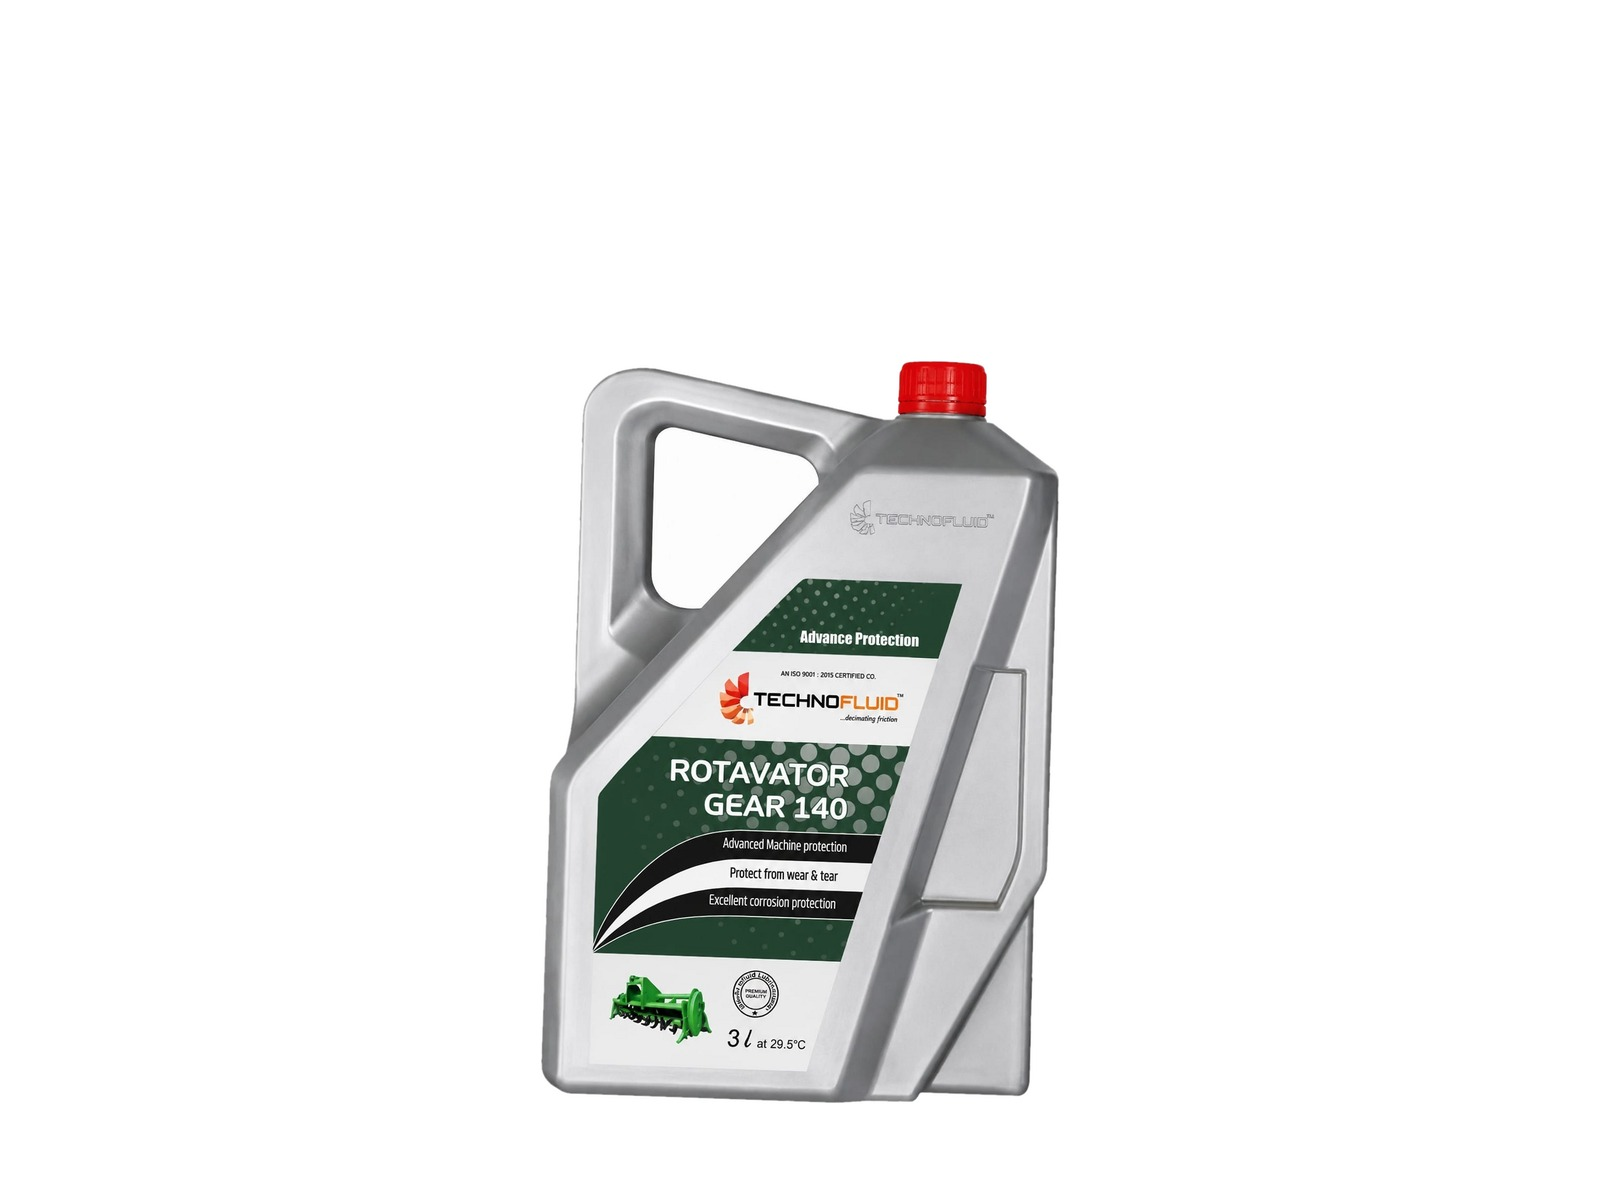
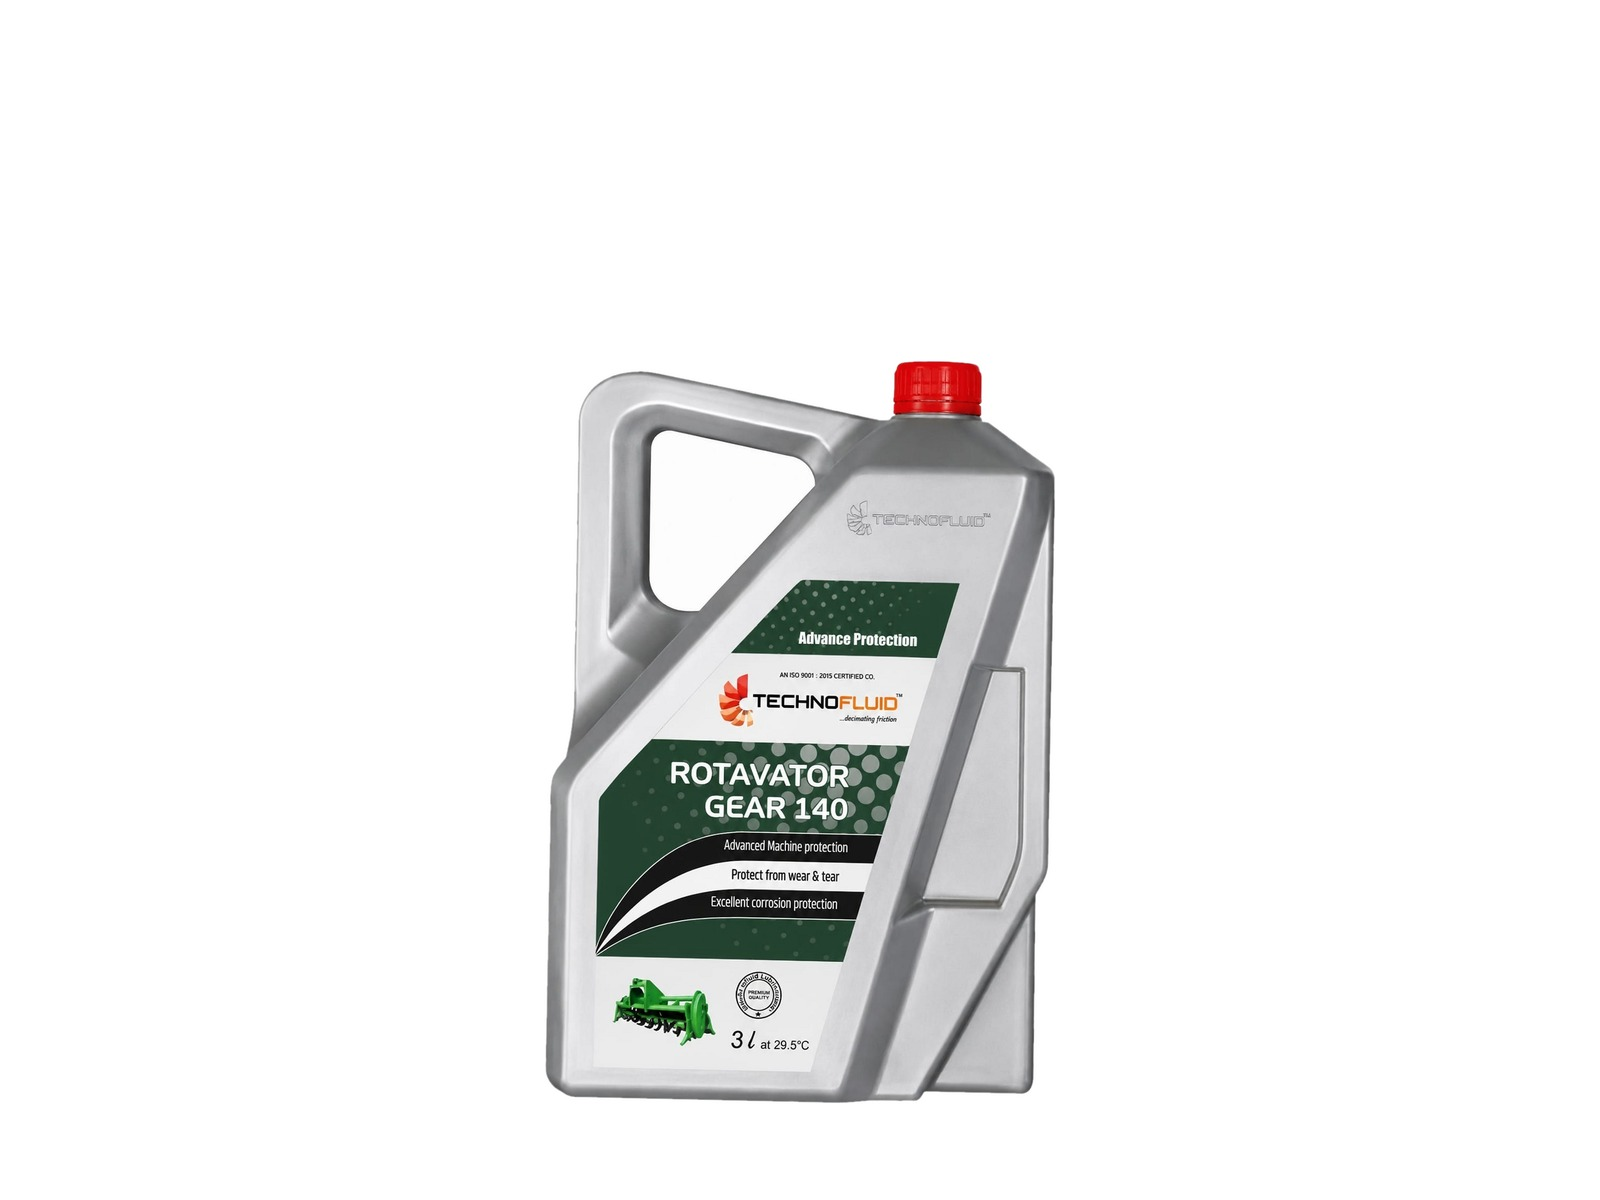
Codify product photo display standard; match detail gallery to it
Standard now lives in scripts/normalize_product_photos.py (canvas, 92%
baseline, per-pack size ladder, grease classified by real pack shape, 2 deg
can tilt) and is referenced from CLAUDE.md, so new photos are normalised the
same way instead of being resized by hand. The tilt rotates towards a
measured target, so re-running never compounds it; whole library re-run from
the source photos to guarantee exactly one tilt everywhere.

Detail page: gallery frame was aspect-square with p-6 while cards are 4:3
with p-4, so the same photo rendered smaller and off-baseline there. Gallery
and thumbnails are now 4:3, so products show at the standard size and tilt
on the detail page too.

diff --git a/frontend/app/(public)/products/[slug]/_components/ProductGallery.tsx b/frontend/app/(public)/products/[slug]/_components/ProductGallery.tsx
@@ -22,13 +22,15 @@ export default function ProductGallery({
 
   return (
     <div className="flex flex-col gap-3">
-      <div className="relative aspect-square w-full overflow-hidden rounded-3xl border border-border bg-white">
+      {/* 4:3 frame with the same padding as the product cards, so a photo
+          renders at exactly the standard size (and tilt) it does elsewhere. */}
+      <div className="relative aspect-[4/3] w-full overflow-hidden rounded-3xl border border-border bg-white">
         <Image
           src={selected.src}
           alt={selectedAlt}
           fill
           sizes="(min-width: 1024px) 320px, (min-width: 640px) 50vw, 100vw"
-          className="object-contain p-6"
+          className="object-contain p-4"
           priority
         />
       </div>
@@ -54,7 +56,7 @@ export default function ProductGallery({
                 onClick={() => setSelectedIndex(i)}
                 aria-label={`Show image: ${thumbAlt}`}
                 aria-pressed={isActive}
-                className="relative h-16 w-16 shrink-0 overflow-hidden rounded-xl border bg-white transition-opacity"
+                className="relative h-16 w-[85px] shrink-0 overflow-hidden rounded-xl border bg-white transition-opacity"
                 style={{
                   borderColor: isActive ? BRAND.orange : undefined,
                   borderWidth: isActive ? "2px" : "1px",

diff --git a/scripts/normalize_product_photos.py b/scripts/normalize_product_photos.py
@@ -1,0 +1,171 @@
+#!/usr/bin/env python3
+"""Normalise product photos to the Technofluid display standard.
+
+Run this on every new/updated product photo before committing it — it is what
+keeps pack sizes readable at a glance across cards, series galleries and
+industry thumbnails.
+
+THE STANDARD
+------------
+* Canvas        1600 x 1200 (4:3) — the aspect the cards and gallery render in.
+* Baseline      every product's bottom sits at 92% of frame height, so items
+                placed side by side look like they stand on one shelf.
+* Background    pure white (backgrounds are flood-filled from the border).
+* Size ladder   product height as a fraction of frame height, by pack:
+
+                  500 ml            0.50
+                  1 L               0.58
+                  2.5 L             0.60
+                  3 L / 3.5 L       0.62
+                  5 L               0.65
+                  5 kg grease pail  0.60   (squat pack, height/width < 1.05)
+                  18/20 kg pail     0.84   (tall pack)
+                  drums / tins      0.88
+
+                Grease is classified by measured pack proportions, not by
+                filename: the squat 5 kg pail and the tall 18/20 kg bucket are
+                different products and must not render at the same size.
+
+* Tilt          grey jerry cans (2.5/3/3.5/5 L) are rotated 2 deg clockwise,
+                matching the client-approved cutting-oil can. The rotation is
+                applied to a measured target, not blindly, so re-running the
+                script never compounds the tilt.
+
+Sizes were set with the client (Aug 2026); change TARGETS/TILT_DEG here rather
+than editing individual photos, then re-run over the whole library so
+everything stays on one ladder.
+
+Usage:
+    python3 scripts/normalize_product_photos.py [path ...]
+
+With no arguments it processes every photo under
+frontend/public/product-photos. Requires: pillow, numpy, scipy.
+"""
+from __future__ import annotations
+
+import re
+import sys
+from pathlib import Path
+
+import numpy as np
+from PIL import Image
+from scipy import ndimage
+
+ROOT = Path(__file__).resolve().parent.parent / "frontend/public/product-photos"
+
+CANVAS_W, CANVAS_H = 1600, 1200
+BASELINE = round(0.92 * CANVAS_H)
+JERRY_CAN = re.compile(r"(-2-5-l|-3-l|-3-5-l|-5-l)\.jpg$")
+SQUAT_MAX_RATIO = 1.05  # grease: height/width below this is the 5 kg pail
+
+# A jerry can straight off the shoot measures ~-1.17 deg on this metric; the
+# client-approved 2 deg clockwise tilt puts it at ~-3.2. We rotate towards that
+# figure, so an already-tilted photo is left alone instead of tilted twice.
+TARGET_CAN_LEAN = -3.2
+LEAN_TOLERANCE = 0.2
+
+TARGETS: list[tuple[str, float]] = [
+    (r"500-?ml", 0.50),
+    (r"(-1-l\b|-1-l\.|bottle)", 0.58),
+    (r"-2-5-l", 0.60),
+    (r"(-3-l|-3-5-l)", 0.62),
+    (r"-5-l", 0.65),
+    (r"(pail|bucket|18-l)", 0.84),
+    (r"(barrel|tin)", 0.88),
+]
+GREASE_SQUAT, GREASE_TALL, FALLBACK = 0.60, 0.84, 0.84
+
+
+def whiten(img: Image.Image) -> Image.Image:
+    """Flood the border-connected light background to pure white, feathered."""
+    a = np.asarray(img).astype(np.int16)
+    mn, mx = a.min(axis=2), a.max(axis=2)
+    candidate = (mn >= 185) & ((mx - mn) <= 42)
+    border = np.zeros_like(candidate)
+    border[0, :] = border[-1, :] = True
+    border[:, 0] = border[:, -1] = True
+    bg = ndimage.binary_propagation(candidate & border, mask=candidate)
+    soft = ndimage.gaussian_filter(bg.astype(np.float32), 1.2)[..., None]
+    blended = a.astype(np.float32) * (1 - soft) + 255.0 * soft
+    return Image.fromarray(np.clip(blended, 0, 255).astype(np.uint8))
+
+
+def can_lean(img: Image.Image) -> float:
+    """Mean angle of the can's left/right silhouette edges, in degrees."""
+    mask = np.asarray(img).min(axis=2) < 235
+    rows = np.where(mask.any(axis=1))[0]
+    top, height = rows[0], rows[-1] - rows[0]
+    angles = []
+    for side in ("left", "right"):
+        ys, xs = [], []
+        for y in range(int(top + 0.60 * height), int(top + 0.88 * height)):
+            idx = np.where(mask[y])[0]
+            if len(idx) == 0:
+                continue
+            ys.append(y)
+            xs.append(idx[0] if side == "left" else idx[-1])
+        if len(ys) < 5:
+            return TARGET_CAN_LEAN  # unmeasurable: leave the photo as-is
+        angles.append(np.degrees(np.arctan(np.polyfit(ys, xs, 1)[0])))
+    return float(np.mean(angles))
+
+
+def bbox(img: Image.Image) -> tuple[int, int, int, int]:
+    mask = np.asarray(img).min(axis=2) < 240
+    rows = np.where(mask.any(axis=1))[0]
+    cols = np.where(mask.any(axis=0))[0]
+    return cols[0], rows[0], cols[-1] + 1, rows[-1] + 1
+
+
+def target_height(path: Path, box: tuple[int, int, int, int]) -> float:
+    if "grease" in str(path).lower():
+        x0, y0, x1, y1 = box
+        ratio = (y1 - y0) / (x1 - x0)
+        return GREASE_SQUAT if ratio < SQUAT_MAX_RATIO else GREASE_TALL
+    for pattern, value in TARGETS:
+        if re.search(pattern, path.name):
+            return value
+    return FALLBACK
+
+
+def normalize(path: Path) -> str:
+    img = Image.open(path).convert("RGB")
+    tilted = False
+    if JERRY_CAN.search(path.name):
+        delta = TARGET_CAN_LEAN - can_lean(img)
+        if abs(delta) > LEAN_TOLERANCE:
+            img = whiten(
+                img.rotate(delta, resample=Image.BICUBIC, expand=True,
+                           fillcolor=(255, 255, 255))
+            )
+            tilted = True
+
+    box = bbox(img)
+    fraction = target_height(path, box)
+    x0, y0, x1, y1 = box
+    crop = img.crop((max(x0 - 2, 0), max(y0 - 2, 0),
+                     min(x1 + 2, img.width), min(y1 + 2, img.height)))
+
+    height = round(fraction * CANVAS_H)
+    width = round(crop.width * height / crop.height)
+    if width > CANVAS_W - 100:  # very wide products: fit by width instead
+        width = CANVAS_W - 100
+        height = round(crop.height * width / crop.width)
+
+    canvas = Image.new("RGB", (CANVAS_W, CANVAS_H), (255, 255, 255))
+    canvas.paste(crop.resize((width, height), Image.LANCZOS),
+                 ((CANVAS_W - width) // 2, BASELINE - height))
+    canvas.save(path, quality=92)
+    return f"{path.name}: height {fraction:.2f}{' + tilt' if tilted else ''}"
+
+
+def main() -> None:
+    args = [Path(a) for a in sys.argv[1:]]
+    files = args or sorted(ROOT.rglob("*.jpg"))
+    for path in files:
+        print(" ", normalize(path))
+    print(f"{len(files)} photo(s) normalised to the display standard")
+
+
+if __name__ == "__main__":
+    main()

diff --git a/CLAUDE.md b/CLAUDE.md
@@ -80,6 +80,7 @@ Cloud Functions (verify `caller.role` server-side) own: **account approval, role
 - **Referenced entities store both id and name** (`{ productId, productName }`), plus `createdAt` / `updatedAt` (AGENTS.md §3).
 - **Soft delete:** always write `deleted: false` on create. Firestore `where("deleted","!=",true)` **excludes docs missing the field** — a doc created without `deleted` becomes invisible. Every soft-deletable doc must set the field at creation.
 - **Media:** Firebase Storage; Firestore stores `url` **and** `storagePath` (mandatory for deletion).
+- **Public product photos** (`frontend/public/product-photos/`) follow a fixed display standard so pack sizes read correctly next to each other: 1600×1200 canvas, white background, all products on a 92% baseline, and a size ladder by pack (500 ml → drum). Never resize a photo by hand — run `scripts/normalize_product_photos.py` (safe to re-run; it documents the ladder and is the single place to change it).
 
 ## Routing & UI
 
